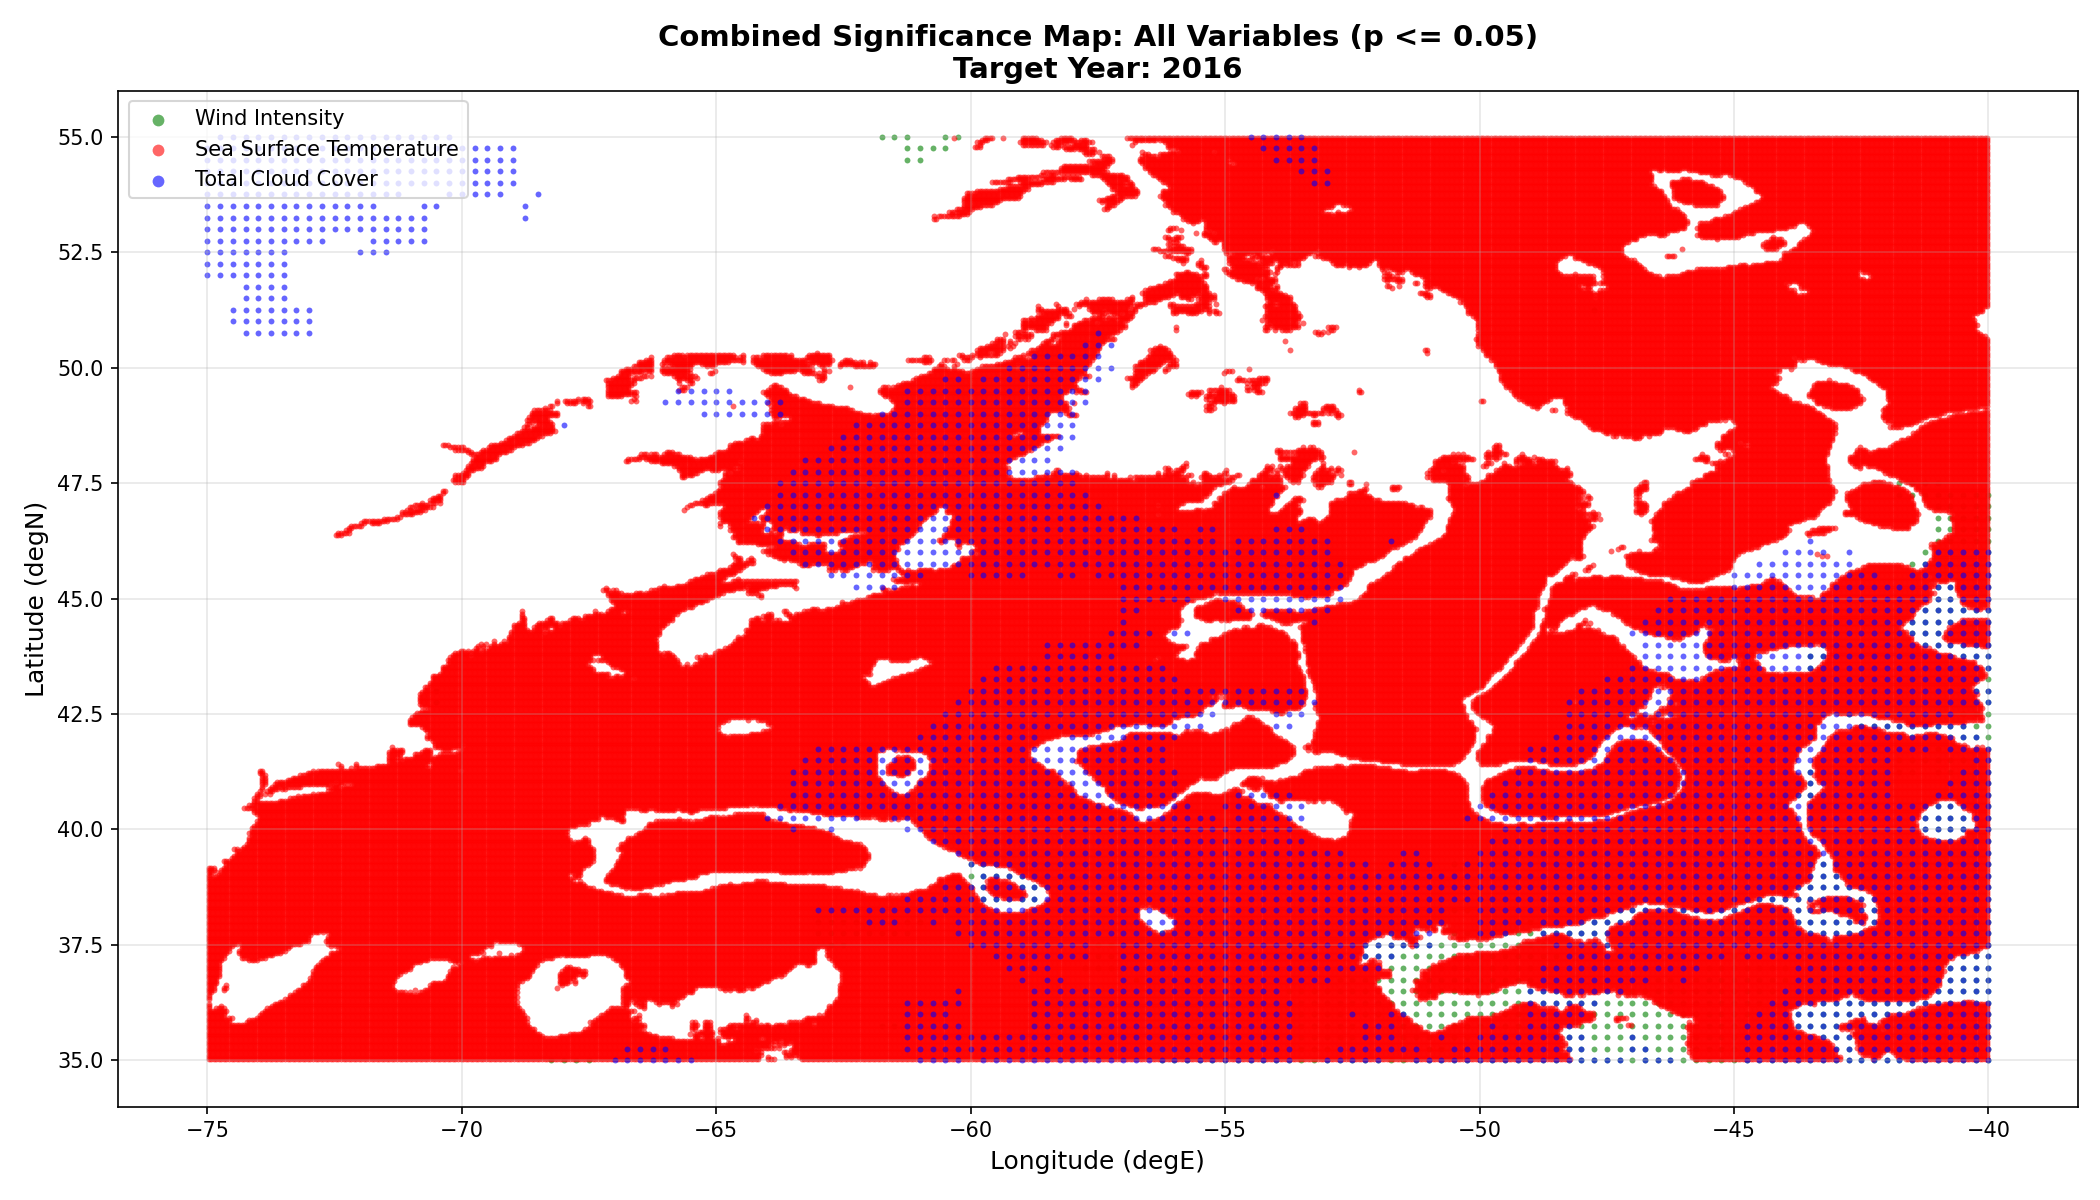
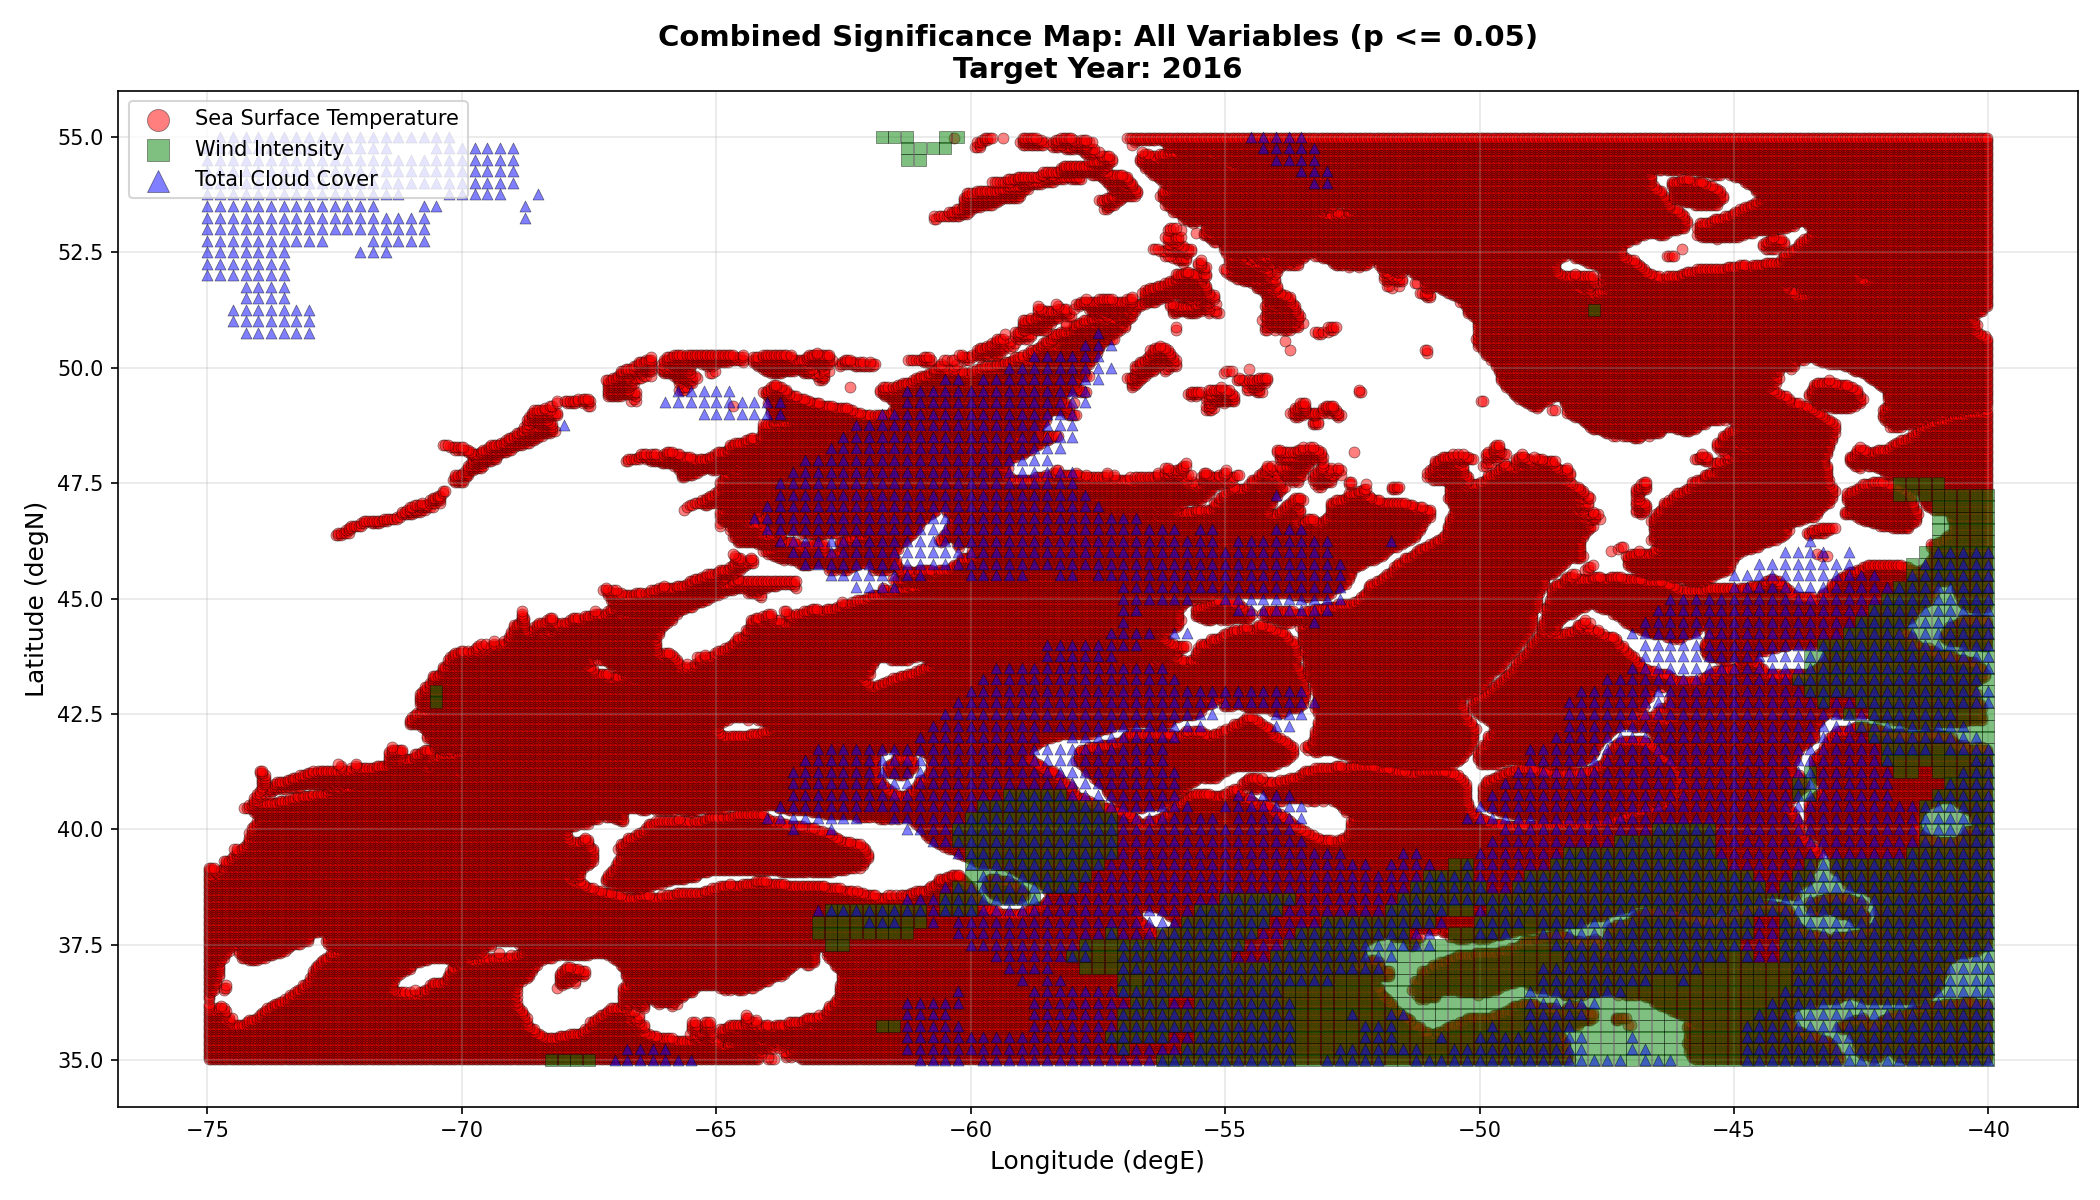
final t-test modifications

diff --git a/DigitalOcean/Project/t-test.py b/DigitalOcean/Project/t-test.py
@@ -286,28 +286,35 @@ def plot_combined_significance(results_by_measurement, base_filename):
     results_by_measurement: dict of {measurement: (lon, lat, significant_mask)}
     """
     fig, ax = plt.subplots(figsize=(14, 8))
-    
-    # Define colors for each measurement
-    colors = {
-        "sst": "red",
-        "tcc": "blue",
-        "wind_intensity": "green",
+
+    marker_styles = {
+        "sst": {"marker": "o", "color": "red", "zorder": 1},
+        "wind_intensity": {"marker": "s", "color": "green", "zorder": 2},
+        "tcc": {"marker": "^", "color": "blue", "zorder": 3},
     }
-    
-    for measurement, (lon, lat, sig_mask) in results_by_measurement.items():
+
+    draw_order = ["sst", "wind_intensity", "tcc"]
+    for measurement in draw_order:
+        if measurement not in results_by_measurement:
+            continue
+        lon, lat, sig_mask = results_by_measurement[measurement]
         lon2d, lat2d = np.meshgrid(lon, lat)
         yy, xx = np.where(sig_mask)
         if yy.size > 0:
+            style = marker_styles[measurement]
             ax.scatter(
                 lon2d[yy, xx],
                 lat2d[yy, xx],
-                s=8,
-                c=colors[measurement],
-                alpha=0.6,
-                linewidths=0,
+                s=28,
+                c=style["color"],
+                marker=style["marker"],
+                alpha=0.5,
+                edgecolors="black",
+                linewidths=0.35,
                 label=MEASUREMENT_LABELS[measurement],
+                zorder=style["zorder"],
             )
-    
+
     ax.set_xlabel("Longitude (degE)", fontsize=12)
     ax.set_ylabel("Latitude (degN)", fontsize=12)
     ax.set_title(
